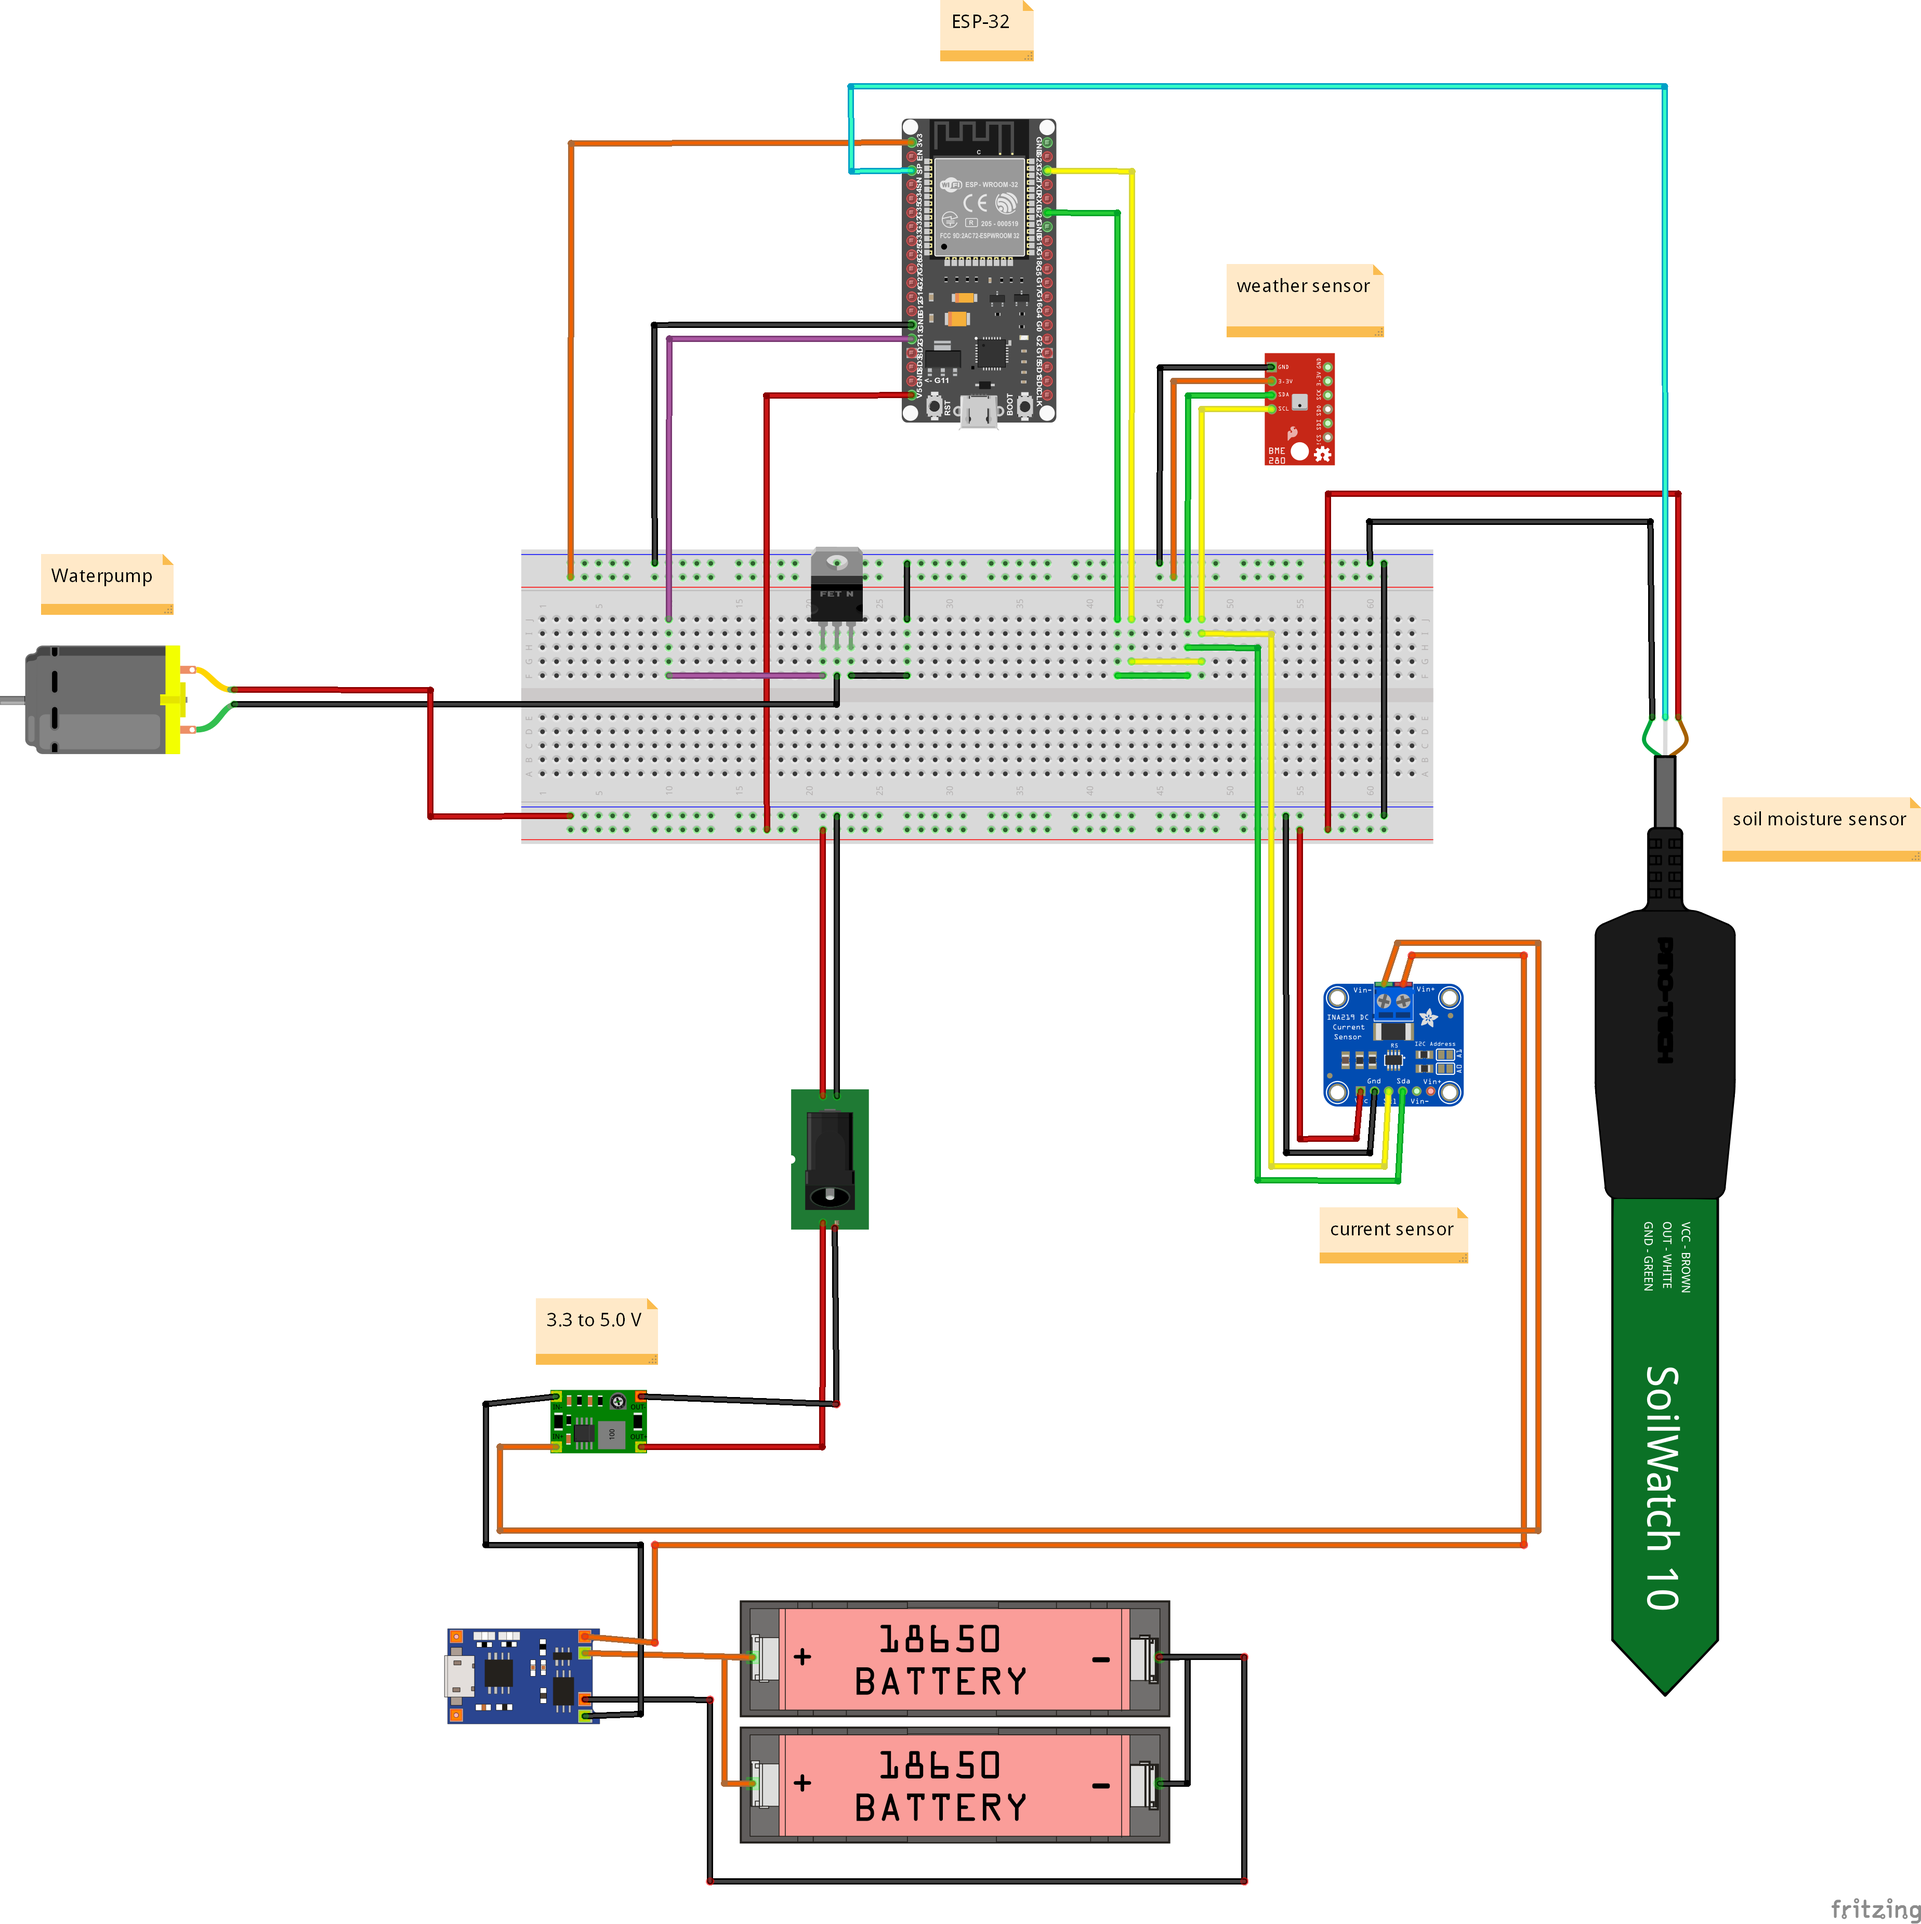
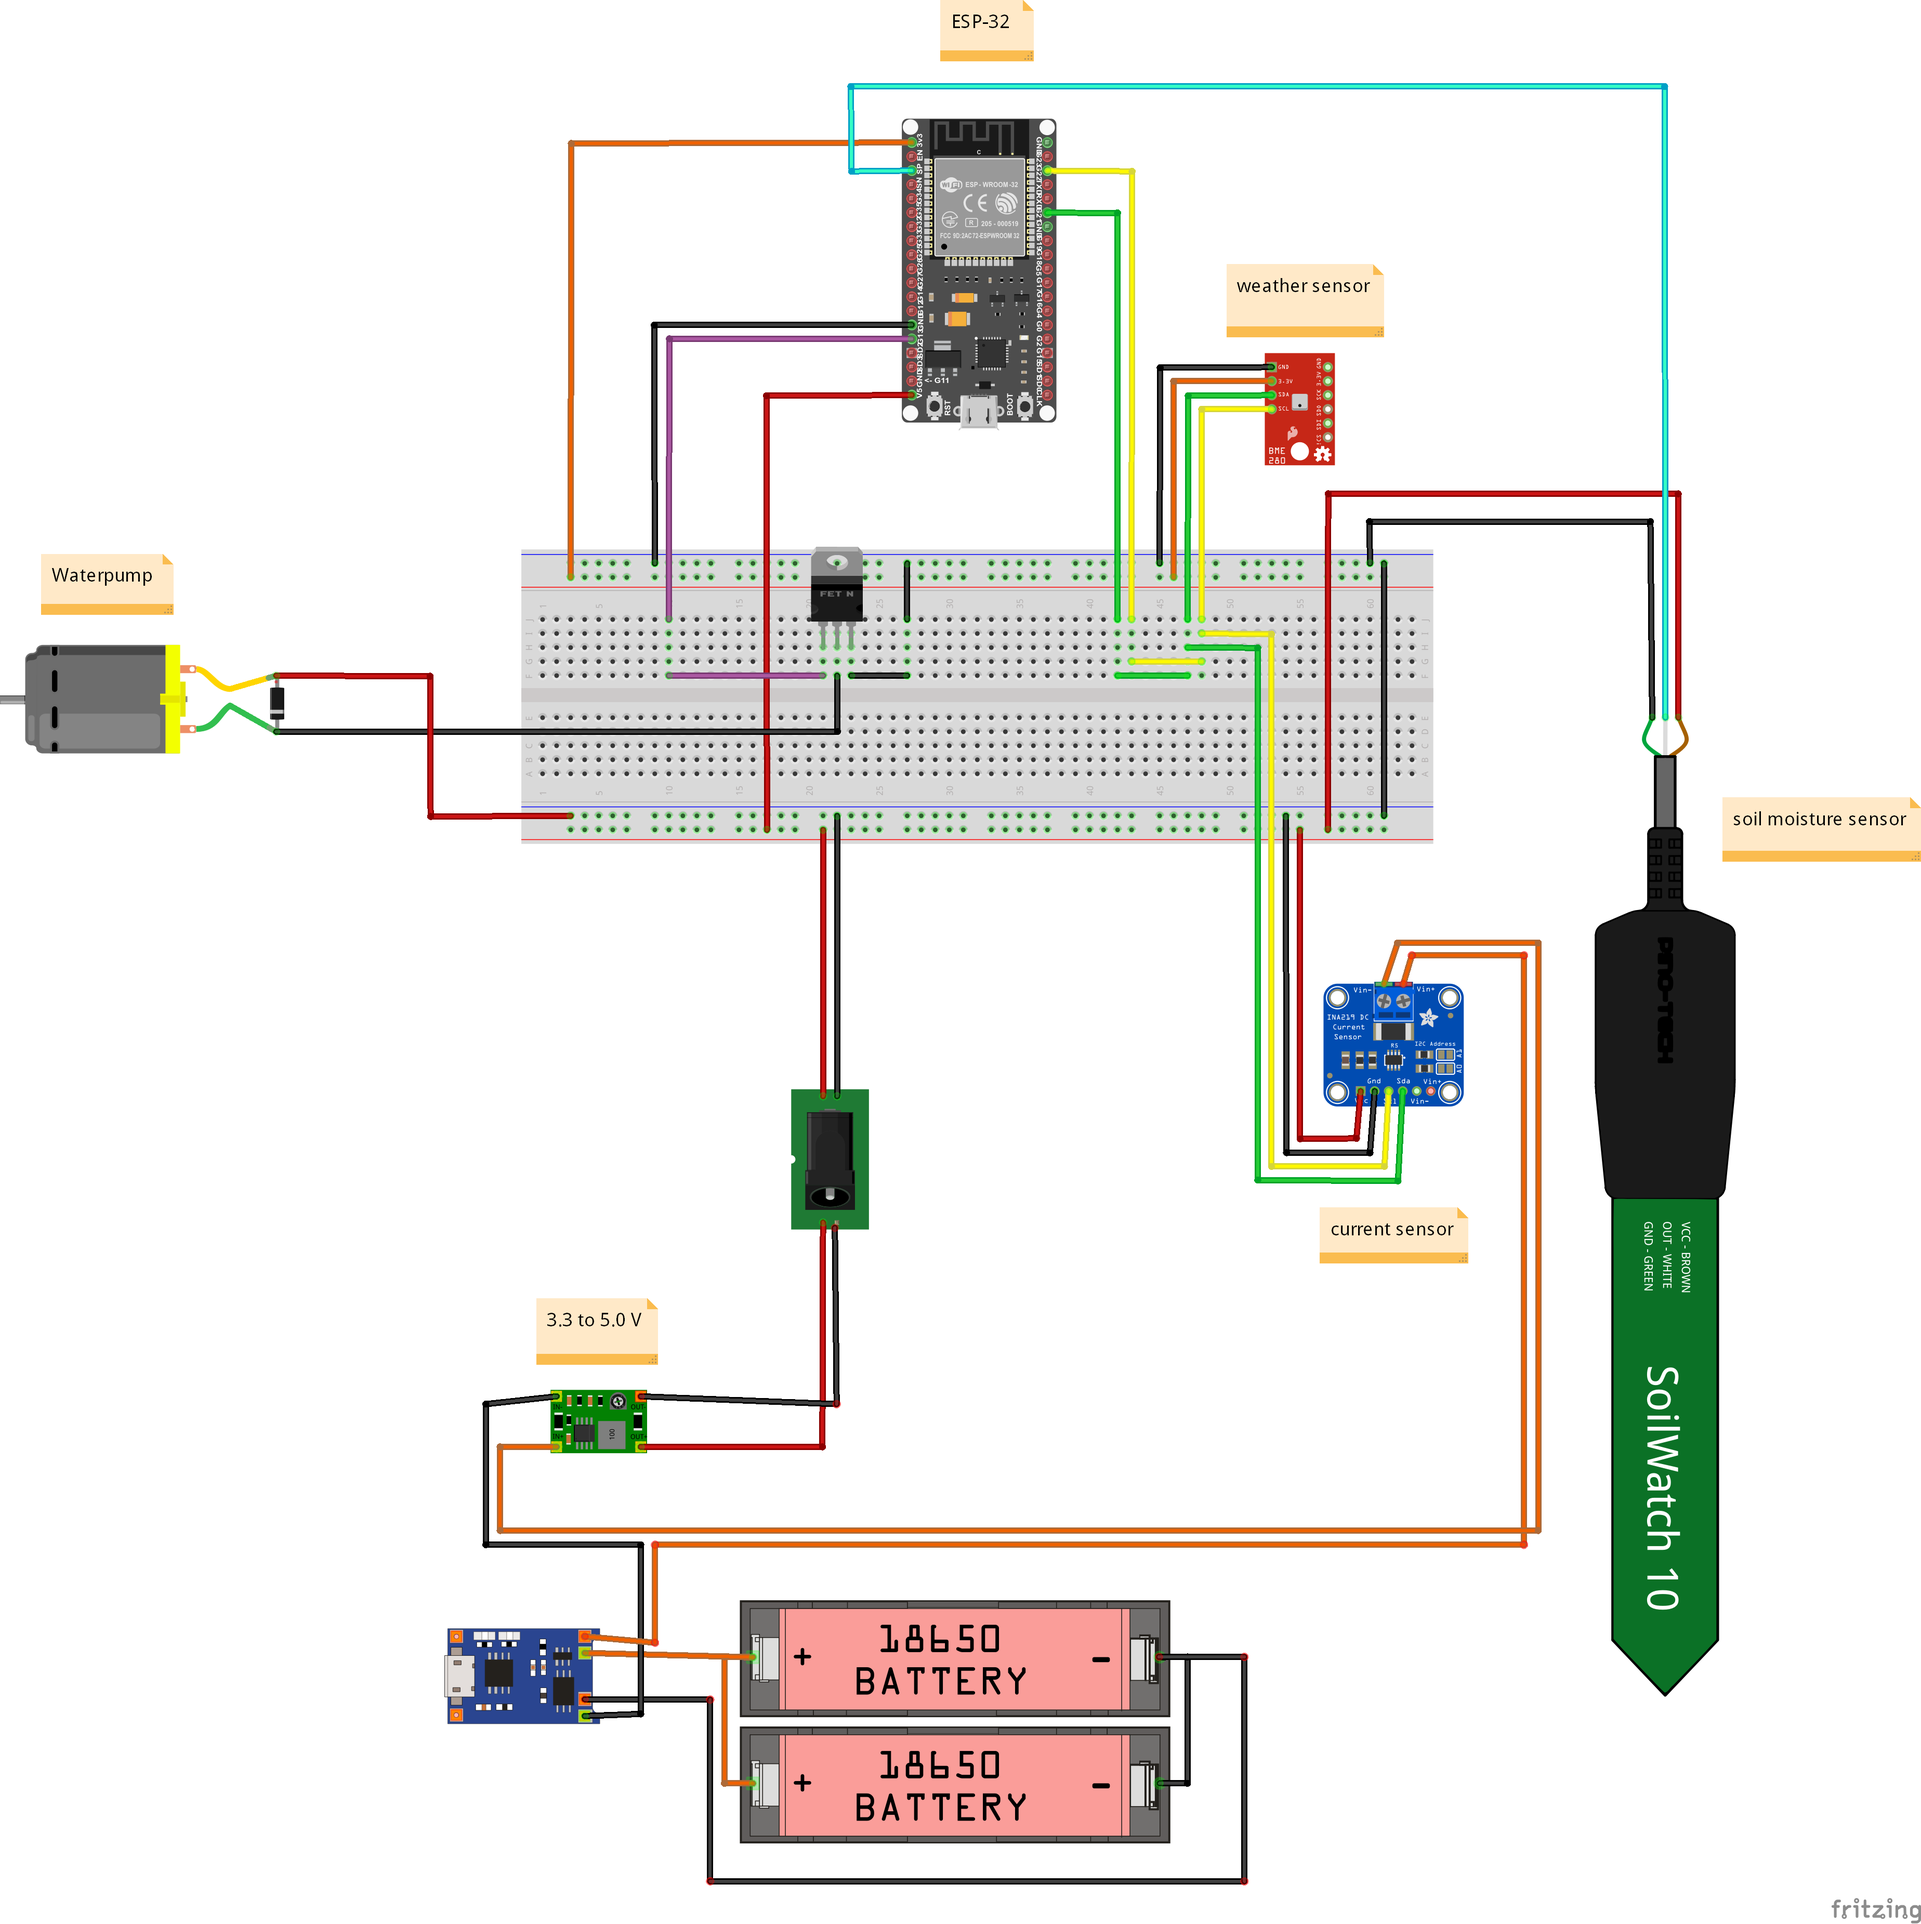
add diode to protect circuit

Changed region(s): [[0.1245, 0.3417, 0.4356, 0.4038]]

diff --git a/src/main.ino.cpp b/src/main.ino.cpp
@@ -1,0 +1,187 @@
+# 1 "C:\\Users\\mail\\AppData\\Local\\Temp\\tmpt8ugi6z0"
+#include <Arduino.h>
+# 1 "C:/Users/mail/Documents/git/wateringsystem2-controller-esp32/src/main.ino"
+#include <Arduino.h>
+#include <ArduinoOTA.h>
+#include <AsyncMqttClient.h>
+#include <Adafruit_Sensor.h>
+#include <Adafruit_BME280.h>
+#include "config.h"
+
+AsyncMqttClient mqttClient;
+TimerHandle_t mqttReconnectTimer;
+TimerHandle_t wifiReconnectTimer;
+
+Adafruit_BME280 bme;
+void WiFiEvent(WiFiEvent_t event);
+void onMqttConnect(bool sessionPresent);
+void onMqttDisconnect(AsyncMqttClientDisconnectReason reason);
+void onMqttMessage(char *topic, char *payload, AsyncMqttClientMessageProperties properties, size_t len, size_t index, size_t total);
+void connectToWifi();
+void connectToMqtt();
+void setup();
+void loop();
+#line 14 "C:/Users/mail/Documents/git/wateringsystem2-controller-esp32/src/main.ino"
+void WiFiEvent(WiFiEvent_t event)
+{
+    Serial.printf("[WiFi-event] event: %d\n", event);
+    switch (event)
+    {
+    case SYSTEM_EVENT_STA_GOT_IP:
+        Serial.println("WiFi connected");
+        Serial.println("IP address: ");
+        Serial.println(WiFi.localIP());
+        connectToMqtt();
+        break;
+    case SYSTEM_EVENT_STA_DISCONNECTED:
+        Serial.println("WiFi lost connection");
+        xTimerStop(mqttReconnectTimer, 0);
+        xTimerStart(wifiReconnectTimer, 0);
+        break;
+    }
+}
+
+void onMqttConnect(bool sessionPresent)
+{
+    Serial.println("Connected to MQTT.");
+    Serial.print("Session present: ");
+    Serial.println(sessionPresent);
+    uint16_t packetIdSub = mqttClient.subscribe("test/lol", 2);
+    Serial.print("Subscribing at QoS 2, packetId: ");
+    Serial.println(packetIdSub);
+    mqttClient.publish("test/lol", 0, true, "test 1");
+    Serial.println("Publishing at QoS 0");
+    uint16_t packetIdPub1 = mqttClient.publish("test/lol", 1, true, "test 2");
+    Serial.print("Publishing at QoS 1, packetId: ");
+    Serial.println(packetIdPub1);
+    uint16_t packetIdPub2 = mqttClient.publish("test/lol", 2, true, "test 3");
+    Serial.print("Publishing at QoS 2, packetId: ");
+    Serial.println(packetIdPub2);
+}
+
+void onMqttDisconnect(AsyncMqttClientDisconnectReason reason)
+{
+    Serial.println("Disconnected from MQTT.");
+
+    if (WiFi.isConnected())
+    {
+        xTimerStart(mqttReconnectTimer, 0);
+    }
+}
+
+void onMqttMessage(char *topic, char *payload, AsyncMqttClientMessageProperties properties, size_t len, size_t index, size_t total)
+{
+    Serial.println("Publish received.");
+    Serial.print("  topic: ");
+    Serial.println(topic);
+    Serial.print("  qos: ");
+    Serial.println(properties.qos);
+    Serial.print("  dup: ");
+    Serial.println(properties.dup);
+    Serial.print("  retain: ");
+    Serial.println(properties.retain);
+    Serial.print("  len: ");
+    Serial.println(len);
+    Serial.print("  index: ");
+    Serial.println(index);
+    Serial.print("  total: ");
+    Serial.println(total);
+}
+
+void connectToWifi()
+{
+    Serial.println("Connecting to Wi-Fi...");
+    WiFi.begin(WIFI_SSID, WIFI_PASSWORD);
+
+
+    while (WiFi.status() != WL_CONNECTED)
+    {
+        delay(500);
+        Serial.print('.');
+    }
+}
+
+void connectToMqtt()
+{
+    Serial.println("Connecting to MQTT...");
+    mqttClient.connect();
+}
+
+void setup()
+{
+    Serial.begin(115200);
+    Serial.println();
+    Serial.println();
+
+    mqttReconnectTimer = xTimerCreate("mqttTimer", pdMS_TO_TICKS(2000), pdFALSE, (void *)0, reinterpret_cast<TimerCallbackFunction_t>(connectToMqtt));
+    wifiReconnectTimer = xTimerCreate("wifiTimer", pdMS_TO_TICKS(2000), pdFALSE, (void *)0, reinterpret_cast<TimerCallbackFunction_t>(connectToWifi));
+
+    WiFi.onEvent(WiFiEvent);
+
+    mqttClient.onConnect(onMqttConnect);
+    mqttClient.onDisconnect(onMqttDisconnect);
+
+
+
+    mqttClient.onMessage(onMqttMessage);
+    mqttClient.setServer(MQTT_HOST, MQTT_PORT);
+
+    connectToWifi();
+
+    ArduinoOTA.onStart([]() {
+                  String type;
+                  if (ArduinoOTA.getCommand() == U_FLASH)
+                  {
+                      type = "sketch";
+                  }
+                  else
+                  {
+                      type = "filesystem";
+                  }
+
+
+                  Serial.println("Start updating " + type);
+              })
+        .onEnd([]() {
+            Serial.println("\nEnd");
+        })
+        .onProgress([](unsigned int progress, unsigned int total) {
+            Serial.printf("Progress: %u%%\r", (progress / (total / 100)));
+        })
+        .onError([](ota_error_t error) {
+            Serial.printf("Error[%u]: ", error);
+            if (error == OTA_AUTH_ERROR)
+            {
+                Serial.println("Auth Failed");
+            }
+            else if (error == OTA_BEGIN_ERROR)
+            {
+                Serial.println("Begin Failed");
+            }
+            else if (error == OTA_CONNECT_ERROR)
+            {
+                Serial.println("Connect Failed");
+            }
+            else if (error == OTA_RECEIVE_ERROR)
+            {
+                Serial.println("Receive Failed");
+            }
+            else if (error == OTA_END_ERROR)
+            {
+                Serial.println("End Failed");
+            }
+        })
+        .begin();
+
+    if (!bme.begin(0x77, &Wire))
+    {
+        Serial.println("Could not find a valid BME280 sensor, check wiring!");
+        while (1)
+            ;
+    }
+}
+
+void loop()
+{
+
+}
